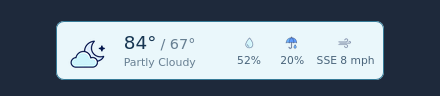
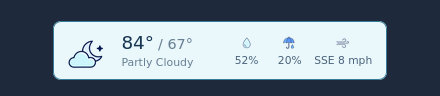
Balance widget padding and refresh screenshots

diff --git a/nws-weather.js b/nws-weather.js
@@ -2,7 +2,7 @@
   "use strict";
 
   const NAMESPACE = "homepage-nws-weather";
-  const VERSION = "0.1.0";
+  const VERSION = "0.1.1";
 
   if (window.__homepageNwsWeather) {
     return;
@@ -87,7 +87,7 @@
         flex: 0 0 auto;
         gap: 0.65rem;
         min-height: 3.25rem;
-        padding: 0.3rem 0.65rem;
+        padding: 0.3rem 0.95rem 0.3rem 0.65rem;
         text-decoration: none;
       }
 
@@ -234,7 +234,7 @@
       @media (max-width: 767px) {
         #${NAMESPACE} {
           margin: 0.5rem auto 0.2rem;
-          padding: 0.3rem 0.55rem;
+          padding: 0.3rem 0.85rem 0.3rem 0.55rem;
         }
 
         .homepage-nws-weather__summary {

diff --git a/examples/custom.js b/examples/custom.js
@@ -12,7 +12,7 @@ window.HOMEPAGE_NWS_WEATHER = {
   }
 
   const script = document.createElement("script");
-  script.src = "/nws-weather.js?v=0.1.0";
+  script.src = "/nws-weather.js?v=0.1.1";
   script.defer = true;
   script.dataset.homepageNwsWeather = "true";
   document.head.appendChild(script);

diff --git a/README.md b/README.md
@@ -76,7 +76,7 @@ window.HOMEPAGE_NWS_WEATHER = {
   if (document.querySelector('script[data-homepage-nws-weather]')) return;
 
   const script = document.createElement("script");
-  script.src = "/nws-weather.js?v=0.1.0";
+  script.src = "/nws-weather.js?v=0.1.1";
   script.defer = true;
   script.dataset.homepageNwsWeather = "true";
   document.head.appendChild(script);
